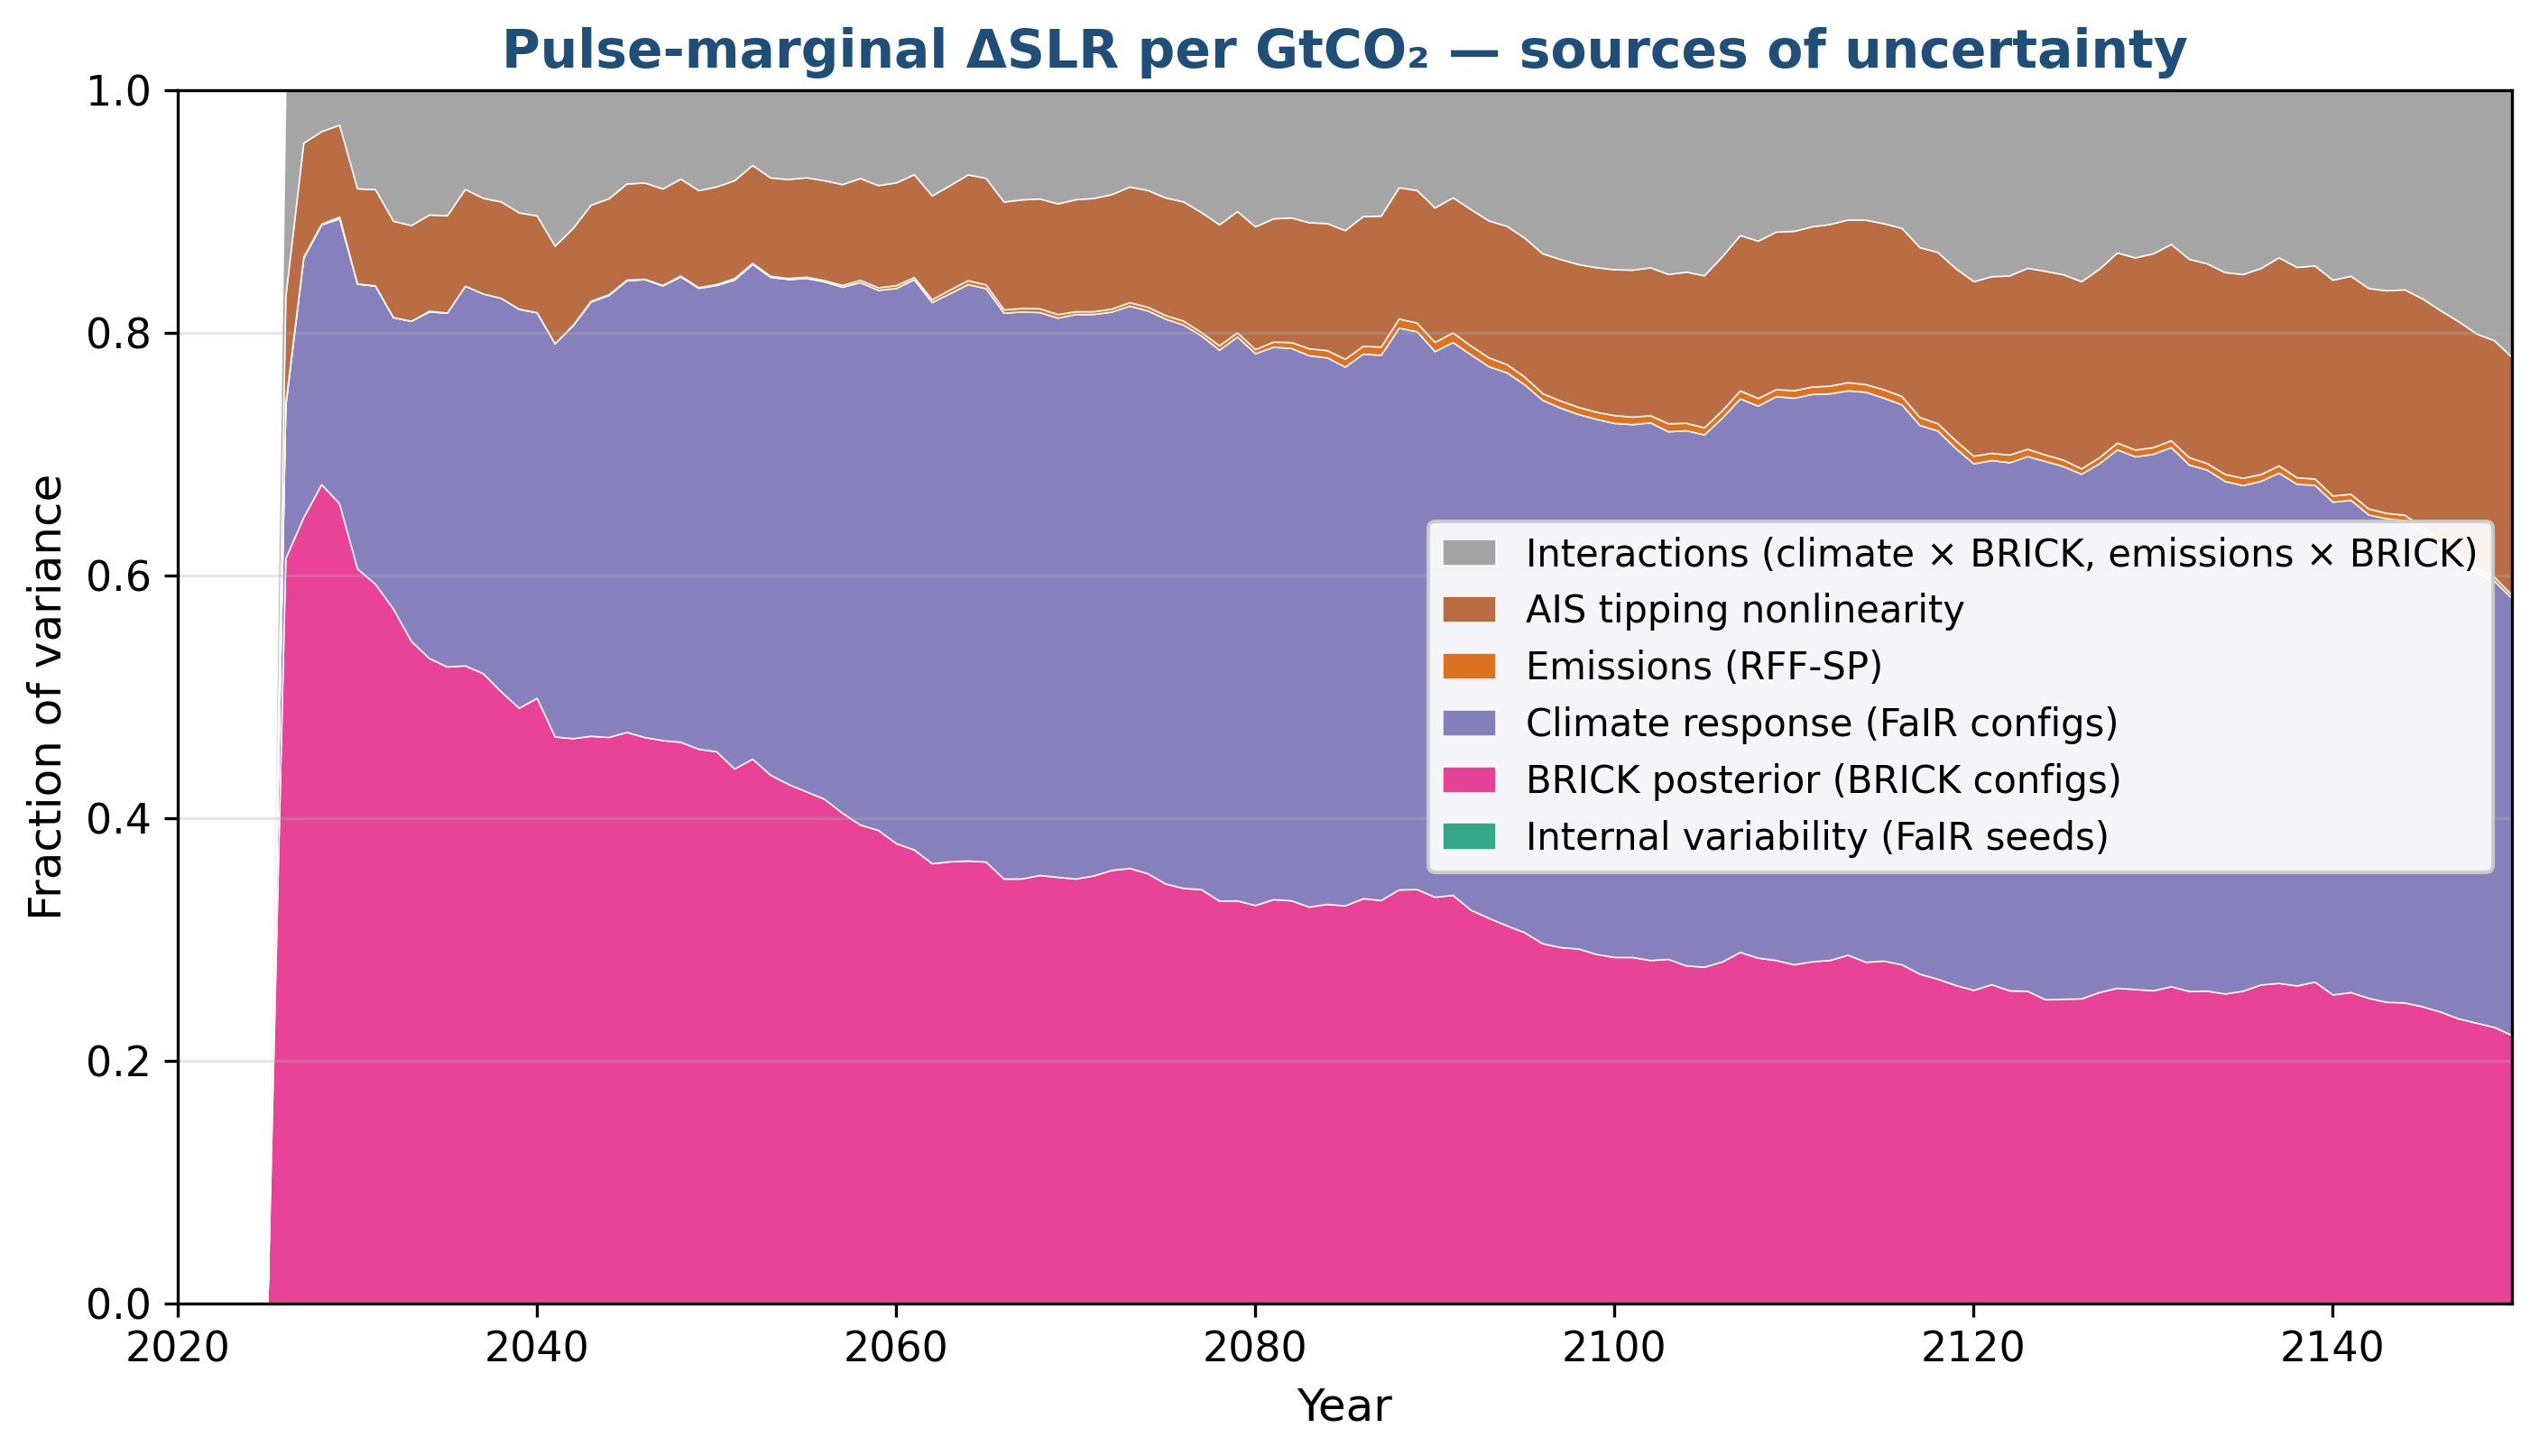
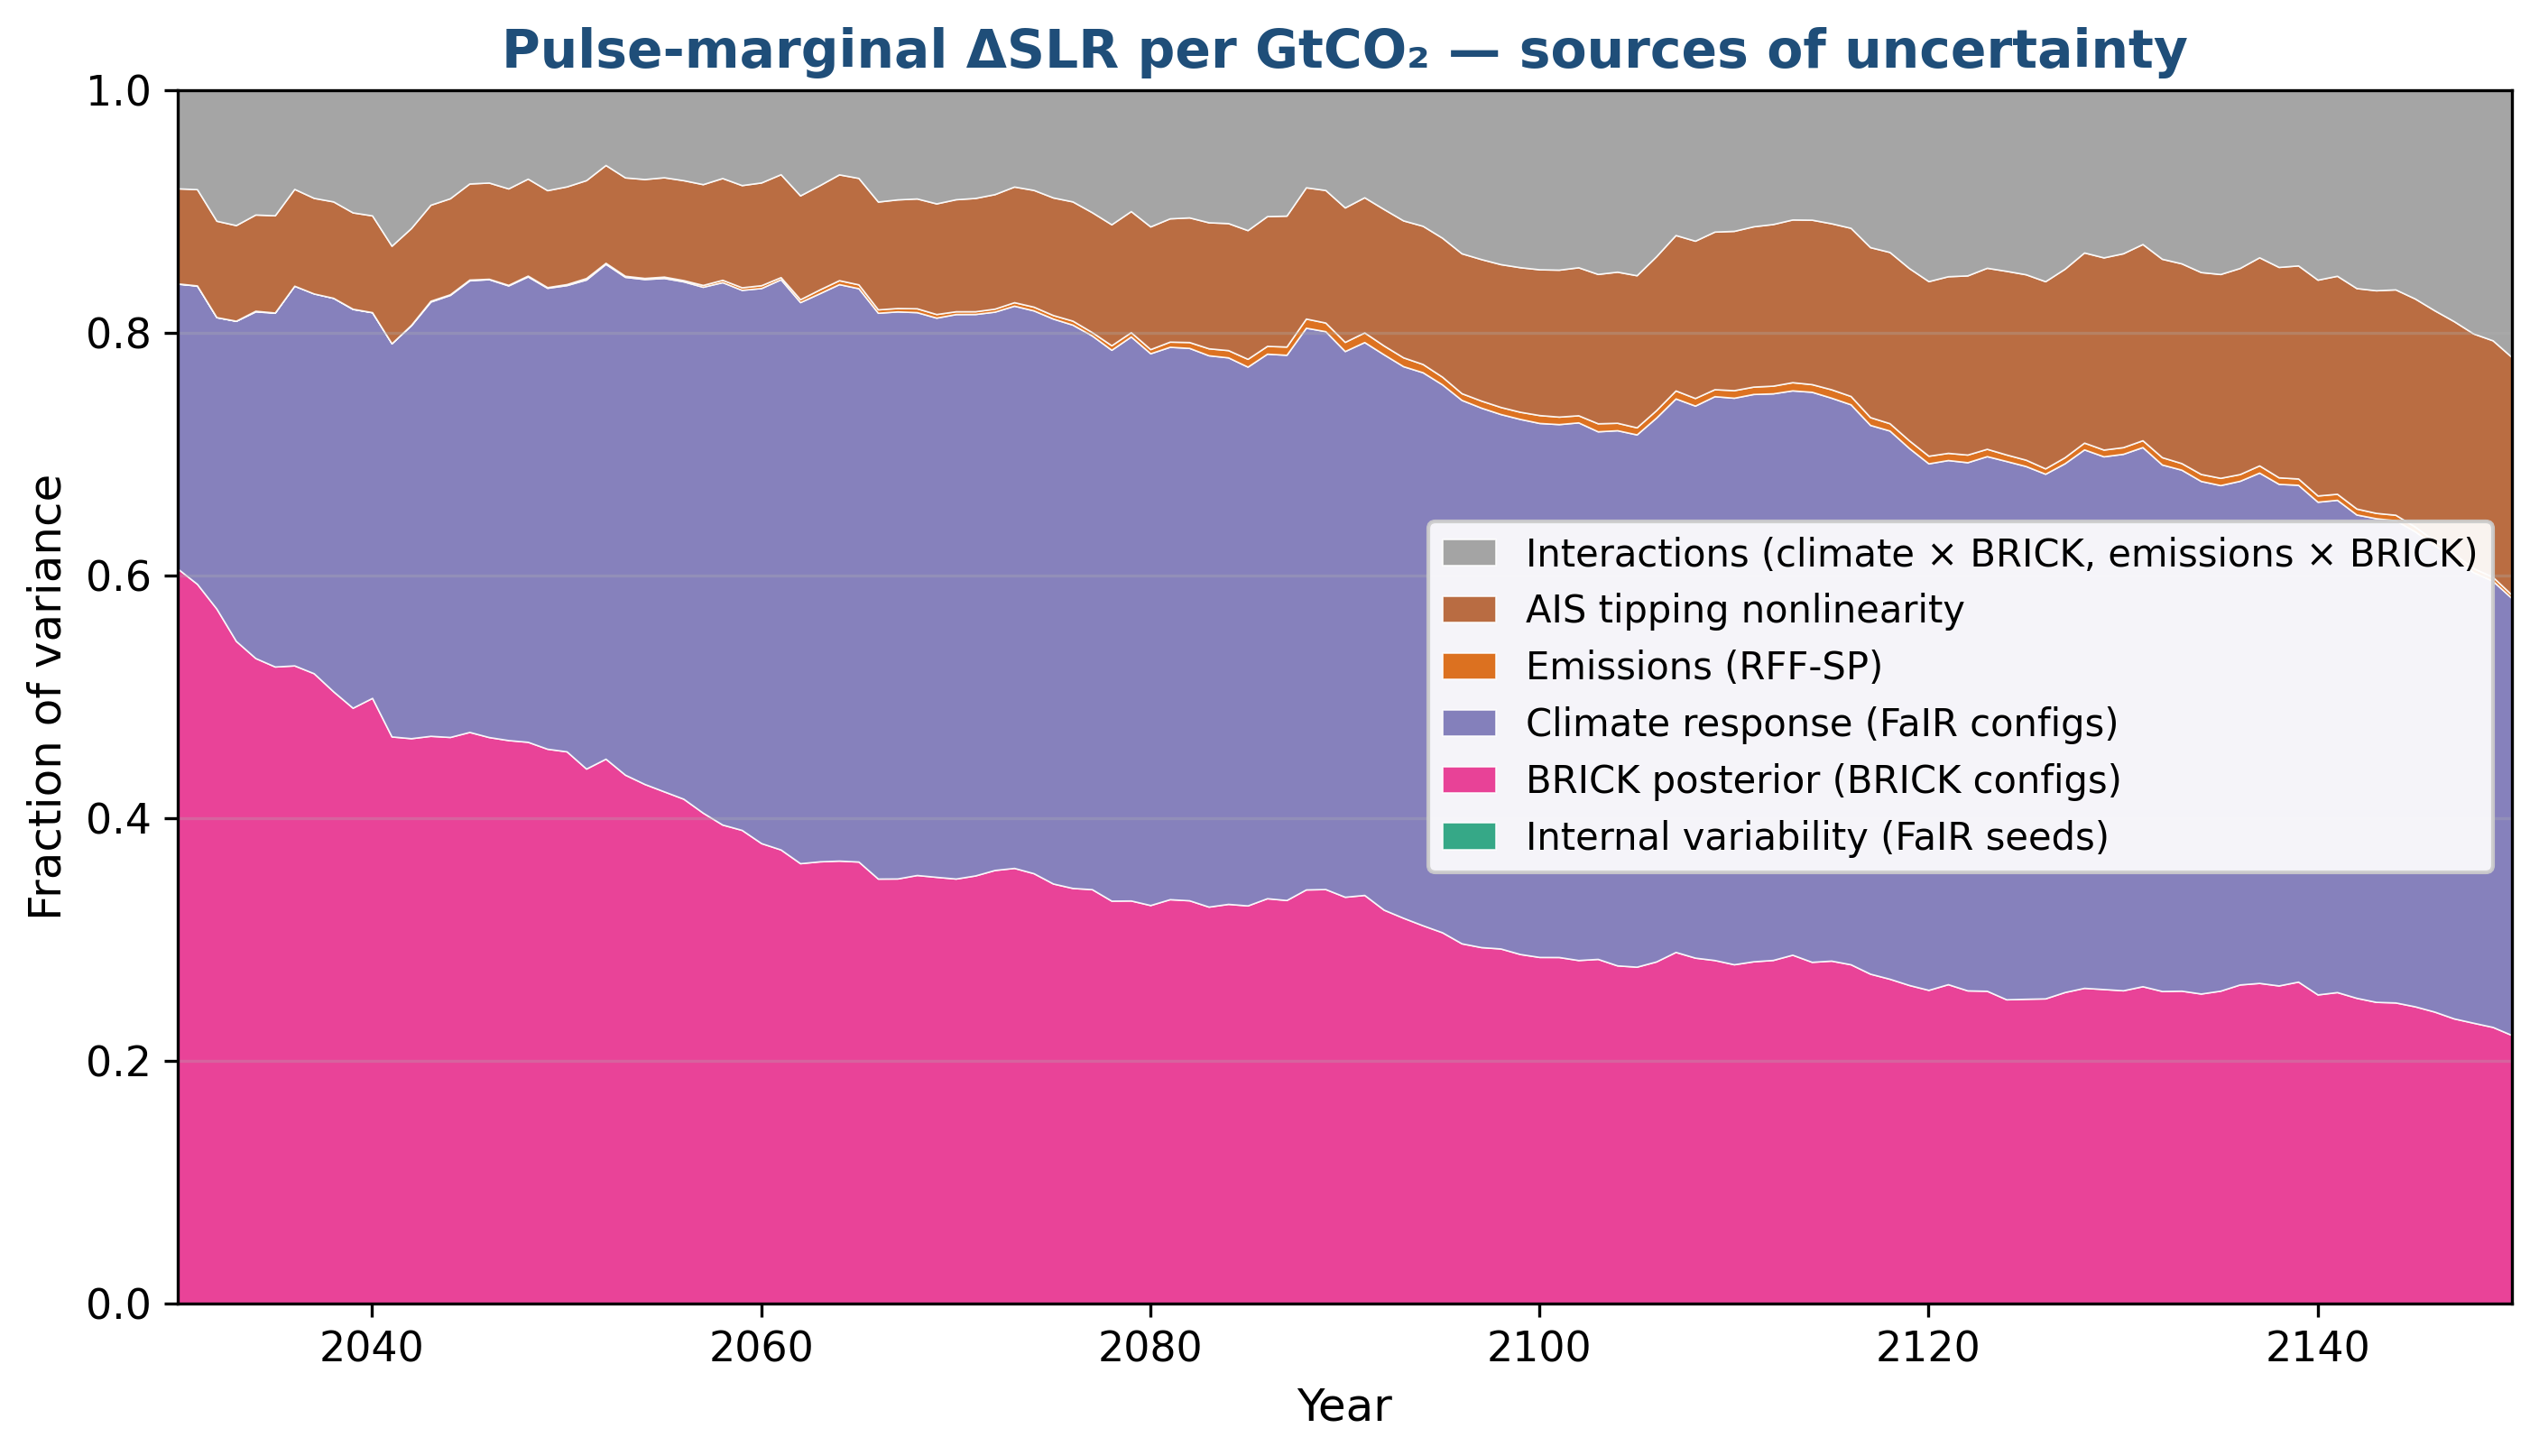
Poster iterate: pulse H-S starts 2030, Panel D side-by-side, Panel G concept fig, discussion edits
- hawkins_sutton_panels.py: pulse panel x-axis starts at 2030 (pulse year);
  shares before the pulse are meaningless. Regenerated C/D.
- New adaptation_damage_function_concept.py -> G_adaptation_damage_concept.png:
  stylized two-graph figure (annual cost vs time with lumpy capex at ~40/100 cm;
  cost vs SLR damage function at 2100, Panel-F style with 5 scenario anchor
  dots) showing a pulse-capex damage function is non-monotonic while the
  amortized/smoothed one is smooth. Filled dots = lumpy anchors, open rings =
  smoothed anchors.
- layout_mockup.py: Panel D now side-by-side (response trajectory | H-S decomp)
  instead of an inset that covered the H-S legend; discussion updated to the
  Group-Sobol numbers (~33% total / ~44% pulse climate-response at 2100) and
  last two paragraphs combined. NOT yet re-rendered (iterating on Panel G first).

diff --git a/python/scripts/poster/adaptation_damage_function_concept.py b/python/scripts/poster/adaptation_damage_function_concept.py
@@ -1,0 +1,214 @@
+"""
+adaptation_damage_function_concept.py
+=====================================
+
+STYLIZED / conceptual figure for poster Panel G. Two stacked stylized graphs
+illustrating why a damage function built from lumpy (pulse) adaptation capital
+expenditures is "wonky" (non-monotonic), whereas one built from smoothed
+expenditures is smooth.
+
+ALL DATA HERE ARE SYNTHETIC and illustrative — no model output is read. The
+five scenarios + their colors mirror the Sweet et al. NCA5 scenarios used in
+Panel F so the two panels read as a matched pair.
+
+Top graph  — annual cost vs TIME, one line per scenario (Sweet-style fan):
+             flow damage rising ∝ SLR, REDUCED after each one-time adaptation
+             capital expenditure (a built defense lowers ongoing damage), plus
+             the two capex bumps themselves (~40 cm and ~100 cm SLR thresholds).
+             Higher-SLR scenarios reach the thresholds sooner AND trigger the
+             capex a few years EARLIER relative to the threshold (more
+             anticipatory adaptation). Dotted black: the 11-yr-smoothed
+             (amortized) annual cost for the representative (Int) scenario.
+
+Bottom graph — annual cost vs SEA-LEVEL RISE at a single year (YEAR_EVAL),
+             built exactly like Panel F's right figure: each scenario
+             contributes ONE colored anchor dot = (its SLR at YEAR_EVAL, its
+             annual cost at YEAR_EVAL); the damage function interpolates
+             through those 5 dots.
+             Solid (wonky, non-monotonic): dots from the raw pulse-capex cost —
+             because at YEAR_EVAL different scenarios sit at different points in
+             their capex cycle (one mid-spike, one in a post-adaptation dip),
+             the anchors are not monotonic in SLR, so the interpolated curve is
+             wonky. Dotted (smooth): dots from the smoothed cost → smooth,
+             monotone damage function.
+
+Output:
+  outputs/poster/G_adaptation_damage_concept.{png,pdf}
+"""
+from pathlib import Path
+import numpy as np
+import matplotlib
+matplotlib.use("Agg")
+import matplotlib.pyplot as plt
+
+ROOT = Path(__file__).resolve().parents[3]
+OUT = ROOT / "outputs" / "poster"
+OUT.mkdir(parents=True, exist_ok=True)
+
+EDGE = "#1F4E79"
+
+YEAR0, YEAR1 = 2020, 2150
+YEARS = np.arange(YEAR0, YEAR1 + 1)
+T = YEARS - YEAR0
+YEAR_EVAL = 2100               # year at which the bottom-panel dots are read
+
+# Five scenarios: SLR at 2100 (cm) + Panel-F colors + capex lead (yrs before
+# each threshold crossing). Higher scenarios → larger lead (more anticipatory).
+# slr2100 chosen so that at YEAR_EVAL the MIDDLE scenario (Int) is caught right
+# in its 2nd capex spike, popping its damage-function anchor above the higher-
+# SLR scenarios → a genuinely non-monotonic raw damage function. Higher
+# scenarios crossed both thresholds years ago (capex done → back on the flow
+# trend); lower scenarios never reach the 2nd threshold.
+SCEN = {
+    "Low":     dict(slr2100=30.0,  color="#1f78b4", lead=(2, 3),  label="Low"),
+    "IntLow":  dict(slr2100=55.0,  color="#33a02c", lead=(3, 4),  label="Int-Low"),
+    "Int":     dict(slr2100=95.0,  color="#fdbf6f", lead=(4, 2),  label="Intermediate"),
+    "IntHigh": dict(slr2100=150.0, color="#ff7f00", lead=(6, 9),  label="Int-High"),
+    "High":    dict(slr2100=200.0, color="#e31a1c", lead=(9, 13), label="High"),
+}
+REP = "Int"                    # scenario used for the smoothed time overlay
+
+T1_CM, T2_CM = 40.0, 100.0     # the two adaptation thresholds
+FLOW_K = 0.22                  # $ (arb.) per cm of SLR — flow damage (monotone)
+CAPEX = (10.0, 24.0)           # one-time adaptation capital costs
+CAPEX_HALFWIDTH = 2            # narrow triangular spike: ± this many years
+AMORT_WIN = 15                 # capex amortization window (smoothed expenditure)
+SMOOTH_WIN = 15                # rolling-average window for the time-axis overlay
+P_ACCEL = 1.7                  # SLR acceleration exponent
+
+
+def slr_curve(slr2100):
+    """Accelerating SLR; hits slr2100 exactly at YEAR_EVAL, continues to YEAR1."""
+    t100 = YEAR_EVAL - YEAR0
+    return slr2100 * (T / t100) ** P_ACCEL
+
+
+def first_cross(slr, thresh):
+    if slr.max() < thresh:
+        return None
+    return int(np.argmax(slr >= thresh))
+
+
+def capex_stream(slr, lead):
+    """Lumpy one-time capex: a narrow triangular spike placed `lead` years
+    before each SLR-threshold crossing. Flow damage is NOT reduced afterward —
+    the lumpiness lives entirely in the capex (matches the brief: 'damages rise
+    in proportion to SLR ... with two one-time capital expenditures')."""
+    capex = np.zeros_like(slr)
+    for thr, lead_yr, cx in zip((T1_CM, T2_CM), lead, CAPEX):
+        cross = first_cross(slr, thr)
+        if cross is None:
+            continue
+        peak = max(cross - lead_yr, 0)
+        hw = CAPEX_HALFWIDTH
+        for off in range(-hw, hw + 1):
+            j = peak + off
+            if 0 <= j < len(capex):
+                capex[j] += cx * (1.0 - abs(off) / (hw + 1))
+    return capex
+
+
+def annual_cost_raw(slr, lead):
+    """Flow damage (∝ SLR, monotone) + lumpy capex spikes."""
+    return FLOW_K * slr + capex_stream(slr, lead)
+
+
+def annual_cost_smoothed(slr, lead):
+    """Flow damage + AMORTIZED capex (the same capital spread smoothly over
+    AMORT_WIN years) — the 'smoothed expenditure' version."""
+    return FLOW_K * slr + rolling(capex_stream(slr, lead), AMORT_WIN)
+
+
+def rolling(a, win):
+    pad = win // 2
+    ap = np.pad(a, (pad, pad), mode="edge")
+    return np.convolve(ap, np.ones(win) / win, mode="valid")[:len(a)]
+
+
+def main():
+    fig, (ax1, ax2) = plt.subplots(2, 1, figsize=(5.4, 7.0))
+    i_eval = int(np.where(YEARS == YEAR_EVAL)[0][0])
+
+    # ---------- TOP: annual cost vs time, one line per scenario ----------
+    anchors_raw = {}    # name -> (slr@eval, cost@eval)
+    anchors_smooth = {}
+    for name, sp in SCEN.items():
+        slr = slr_curve(sp["slr2100"])
+        cost = annual_cost_raw(slr, sp["lead"])
+        smooth = annual_cost_smoothed(slr, sp["lead"])
+        ax1.plot(YEARS, cost, color=sp["color"], lw=1.8, label=sp["label"], zorder=3)
+        anchors_raw[name] = (slr[i_eval], cost[i_eval])
+        anchors_smooth[name] = (slr[i_eval], smooth[i_eval])
+        if name == REP:
+            ax1.plot(YEARS, smooth, color="#333333", lw=1.5, ls=":",
+                     label="Int, smoothed", zorder=4)
+
+    ax1.axvline(YEAR_EVAL, color="#777", lw=0.8, ls="--", zorder=1)
+    ax1.text(YEAR_EVAL + 1, ax1.get_ylim()[1] * 0.96, f"{YEAR_EVAL}",
+             fontsize=7.5, color="#555", va="top")
+    ax1.set_xlim(YEAR0, YEAR1)
+    ax1.set_ylim(bottom=0)
+    ax1.set_xlabel("Year", fontsize=9)
+    ax1.set_ylabel("Annual cost (damage + capex)", fontsize=9)
+    ax1.set_title("Annual cost over time — lumpy adaptation capex",
+                  fontsize=10, fontweight="bold", color=EDGE)
+    ax1.annotate("capex ~40 cm", xy=(0.20, 0.42), xycoords="axes fraction",
+                 fontsize=7, color="#444", ha="center")
+    ax1.annotate("capex ~100 cm", xy=(0.55, 0.78), xycoords="axes fraction",
+                 fontsize=7, color="#444", ha="center")
+    ax1.legend(fontsize=7, loc="upper left", framealpha=0.9, ncol=2)
+    ax1.grid(alpha=0.3, lw=0.5)
+
+    # ---------- BOTTOM: damage function at YEAR_EVAL (Panel-F style) ----------
+    names = list(SCEN.keys())
+    xs = np.array([anchors_raw[n][0] for n in names])
+    ys_raw = np.array([anchors_raw[n][1] for n in names])
+    ys_sm = np.array([anchors_smooth[n][1] for n in names])
+    order = np.argsort(xs)
+    xs_o = xs[order]
+
+    # Interpolate through the 5 scenario anchors (linear, like FrEDI brackets).
+    grid = np.linspace(xs_o.min(), xs_o.max(), 400)
+    ax2.plot(grid, np.interp(grid, xs_o, ys_raw[order]),
+             color="#b2182b", lw=2.0, zorder=3, label="From pulse capex (wonky)")
+    ax2.plot(grid, np.interp(grid, xs_o, ys_sm[order]),
+             color="#333333", lw=1.8, ls=":", zorder=4, label="From smoothed cost")
+    # Colored anchor dots, one per scenario (inherited from the top-panel lines):
+    #   filled = raw (lumpy) cost anchor; open ring = smoothed-cost anchor.
+    for n in names:
+        sx, sy = anchors_raw[n]
+        ax2.scatter([sx], [sy], color=SCEN[n]["color"], s=85,
+                    edgecolor="white", linewidth=1.2, zorder=5)
+        smx, smy = anchors_smooth[n]
+        ax2.scatter([smx], [smy], facecolor="white", edgecolor=SCEN[n]["color"],
+                    s=70, linewidth=1.6, zorder=5)
+    for thr in (T1_CM, T2_CM):
+        ax2.axvline(thr, color="#bbb", lw=0.8, ls="--", zorder=1)
+
+    ax2.set_xlim(0, xs_o.max() * 1.02)
+    ax2.set_ylim(bottom=0)
+    ax2.set_xlabel(f"Sea-level rise at {YEAR_EVAL} (cm)", fontsize=9)
+    ax2.set_ylabel(f"Annual cost at {YEAR_EVAL}", fontsize=9)
+    ax2.set_title("Implied damage function — cost vs SLR",
+                  fontsize=10, fontweight="bold", color=EDGE)
+    ax2.annotate("filled = lumpy-capex anchor;  open ring = smoothed anchor.\n"
+                 "Mid-capex scenario pops the curve non-monotonic.",
+                 xy=(0.97, 0.06), xycoords="axes fraction", fontsize=6.8,
+                 color="#b2182b", ha="right", va="bottom")
+    ax2.legend(fontsize=7.5, loc="upper left", framealpha=0.9)
+    ax2.grid(alpha=0.3, lw=0.5)
+
+    fig.tight_layout(pad=0.6)
+    for ext in ("png", "pdf"):
+        fig.savefig(OUT / f"G_adaptation_damage_concept.{ext}", dpi=300,
+                    bbox_inches="tight")
+    plt.close(fig)
+    print(f"wrote {OUT / 'G_adaptation_damage_concept'}.{{png,pdf}}")
+    print("  anchors at", YEAR_EVAL, "(SLR cm, raw cost, smoothed cost):")
+    for n in names:
+        print(f"    {n:8s}: SLR={anchors_raw[n][0]:6.1f}  raw={anchors_raw[n][1]:6.2f}"
+              f"  smooth={anchors_smooth[n][1]:6.2f}")
+
+
+if __name__ == "__main__":
+    main()

diff --git a/python/scripts/poster/layout_mockup.py b/python/scripts/poster/layout_mockup.py
@@ -250,13 +250,17 @@ def build(total_h, title_h, out_stem, wireframe_label, compact_header=False):
                caption="Hawkins-Sutton 4-way decomposition of total-SLR variance, importance-weighted factorial design over 400 RFF-SP emissions paths, 15 climate calibrations per path, 3 FaIR stochastic seeds, and 3 BRICK posterior samples (N=54,000).  Stacked variance fractions over 2020–2150.\n"
                        "Conceptual companion to Darnell et al. 2025 (Nat Clim Change), who decompose total-SLR uncertainty across emissions vs geophysical sources at the multi-century horizon.")
 
-    # D. Pulse SLR — decomposition + total-response inset, paired with C below.
-    d_img = draw_panel(ax, 30.5, Y(24), 15, Hs(8),
-               label="D. PULSE SLR — sources of uncertainty (1 GtCO₂ pulse at 2030)",
+    # D. Pulse SLR — side-by-side: total-response trajectory (left) + H-S
+    # decomposition (right). Side-by-side (not an inset) so the H-S legend is
+    # never occluded. The two sub-panels split the 15-wide D slot.
+    draw_panel(ax, 30.5, Y(24), 7.2, Hs(8),
+               label="D. PULSE SLR RESPONSE",
+               image_path=PANELS["pulse_inset"],
+               caption="Total pulse-marginal SLR — median + 5–95% band, ΔSLR per GtCO₂, from the 0.01-GtC small-pulse arm (SC-GHG-relevant linear regime, pulse-size invariant). No ensemble mean (corrupted by a few AIS-tipped draws).")
+    draw_panel(ax, 38.3, Y(24), 7.2, Hs(8),
+               label="D′. PULSE SLR — sources of uncertainty",
                image_path=PANELS["pulse_response"],
-               caption="Paired BRICK runs on the same factorial design as Panel C; stacked variance fractions of the pulse-marginal ΔSLR.\n"
-                       "Inset: total pulse-marginal SLR response — median (line) and 5–95% band, ΔSLR per GtCO₂, from the 0.01-GtC small-pulse arm (SC-GHG-relevant linear regime, pulse-size invariant per 1 / 0.1 / 0.01 GtC convergence).  No ensemble mean: it is corrupted by a few AIS-tipped draws.")
-    overlay_inset(ax, PANELS["pulse_inset"], d_img, scale_y=scale_y)
+               caption="Paired BRICK runs on the same factorial design as Panel C (1 GtCO₂ pulse at 2030); stacked variance fractions of the pulse-marginal ΔSLR.")
 
     # Discussion — central position. Marcus draft (May 17 2026).
     discussion_paras = [
@@ -276,21 +280,18 @@ def build(total_h, title_h, out_stem, wireframe_label, compact_header=False):
          "Among FrEDI sectors, HTF elder mortality has the largest monetized "
          "impact (Panel J), with HTF transportation 2nd and coastal properties "
          "3rd (Panel H).  Climate-response uncertainty is the largest "
-         "contributor to total-SLR variance at 2100 (~54%), with BRICK "
-         "posterior and emissions each contributing roughly 23% (Panel C); "
-         "for the marginal pulse response, BRICK posterior uncertainty "
-         "dominates strongly (~80%) with AIS-tipping-state dependence "
-         "contributing most of the remainder (Panel D)."),
+         "contributor to total-SLR variance (~33%) and marginal pulse response "
+         "variance (~44%) in 2100 (Panels C, D)."),
         ("Key considerations we identify for this kind of work: dependence "
          "between FrEDI and BRICK parameter uncertainty (Wong et al. 2026); "
          "look-ahead-based adaptation estimates that account for observed "
          "non-optimal adaptive behavior and smoothing of capital expenditures "
          "(Panel G); and the importance of a wide range of anchor scenarios "
-         "for damage-function calibration (Panel F)."),
-        ("The most important limitation we identify is the limited set of "
-         "impact methodologies currently in FrEDI.  We call on the community "
-         "to produce more impact estimates that can be transformed into "
-         "damage functions to inform this kind of analysis."),
+         "for damage-function calibration (Panel F).  The most important "
+         "limitation we identify is the limited set of impact methodologies "
+         "currently in FrEDI.  We call on the community to produce more impact "
+         "estimates that can be transformed into damage functions to inform "
+         "this kind of analysis."),
     ]
     dx, dw = 14, 16
     dy, dh = Y(24), Hs(8)

diff --git a/python/scripts/poster/hawkins_sutton_panels.py b/python/scripts/poster/hawkins_sutton_panels.py
@@ -71,9 +71,14 @@ COLORS = {
 ORDER = ["internal", "brick", "climate", "emissions", "tipping", "interactions"]
 
 
-def build_panel(target_name, title_text, figsize, out_stem, handoff_stem):
+def build_panel(target_name, title_text, figsize, out_stem, handoff_stem,
+                x_start=None):
     """Same decomposition framework as the substack render: clipped axes +
-    tipping wedge = V_total_unclipped on a single denominator."""
+    tipping wedge = V_total_unclipped on a single denominator.
+
+    x_start: if given, the displayed x-axis starts here (e.g. 2030 for the
+    pulse panel — variance shares of the pulse-marginal response are not
+    meaningful before the pulse year)."""
     unc = pd.read_csv(SUBSTACK / f"v5_hybrid_decomp_{target_name}_unclip.csv")
     clp = pd.read_csv(SUBSTACK / f"v5_hybrid_decomp_{target_name}_clip.csv")
     years = unc.year.values
@@ -100,7 +105,7 @@ def build_panel(target_name, title_text, figsize, out_stem, handoff_stem):
                   labels=[LABELS[c] for c in ORDER],
                   colors=[COLORS[c] for c in ORDER],
                   alpha=0.88, edgecolor="white", linewidth=0.4)
-    ax.set_xlim(years.min(), years.max())
+    ax.set_xlim(x_start if x_start is not None else years.min(), years.max())
     ax.set_ylim(0, 1)
     ax.set_xlabel("Year", fontsize=AX_LABEL_FS)
     ax.set_ylabel("Fraction of variance", fontsize=AX_LABEL_FS)
@@ -150,4 +155,5 @@ if __name__ == "__main__":
         figsize=(9.5, 5.5),
         out_stem="D_pulse_slr_hawkins_sutton",
         handoff_stem="D_pulse_slr",
+        x_start=2030,   # pulse year — shares before the pulse are meaningless
     )